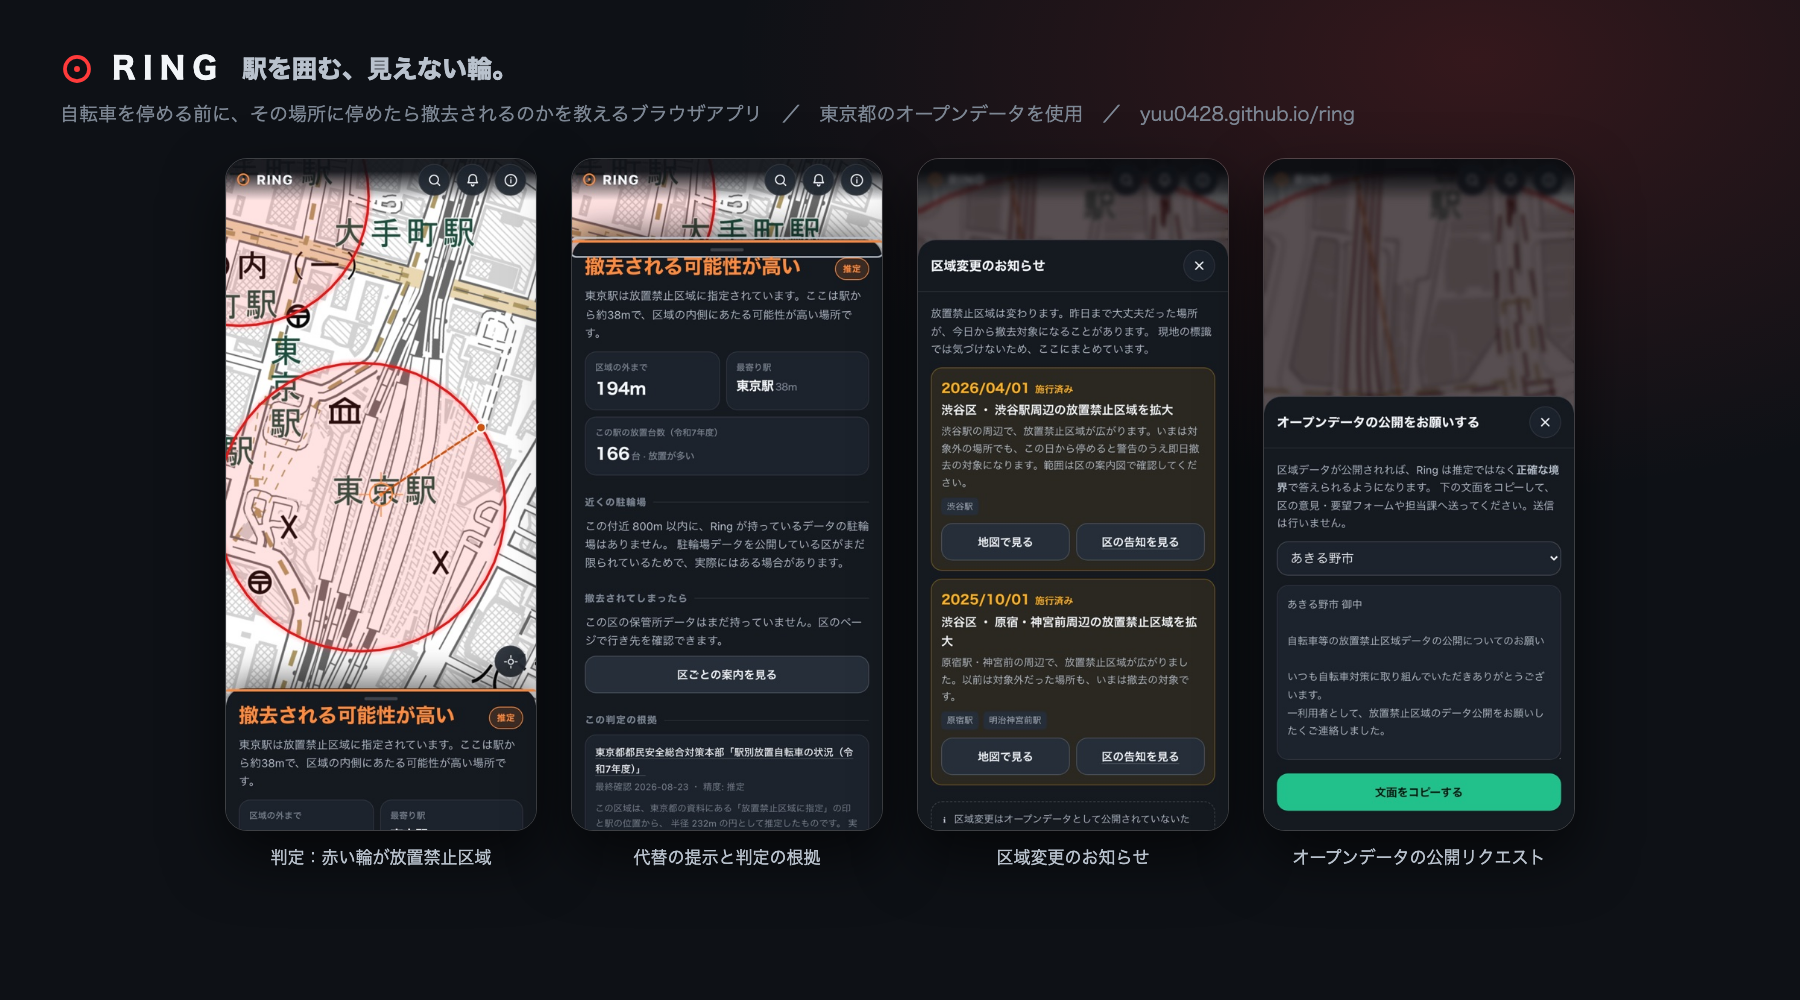
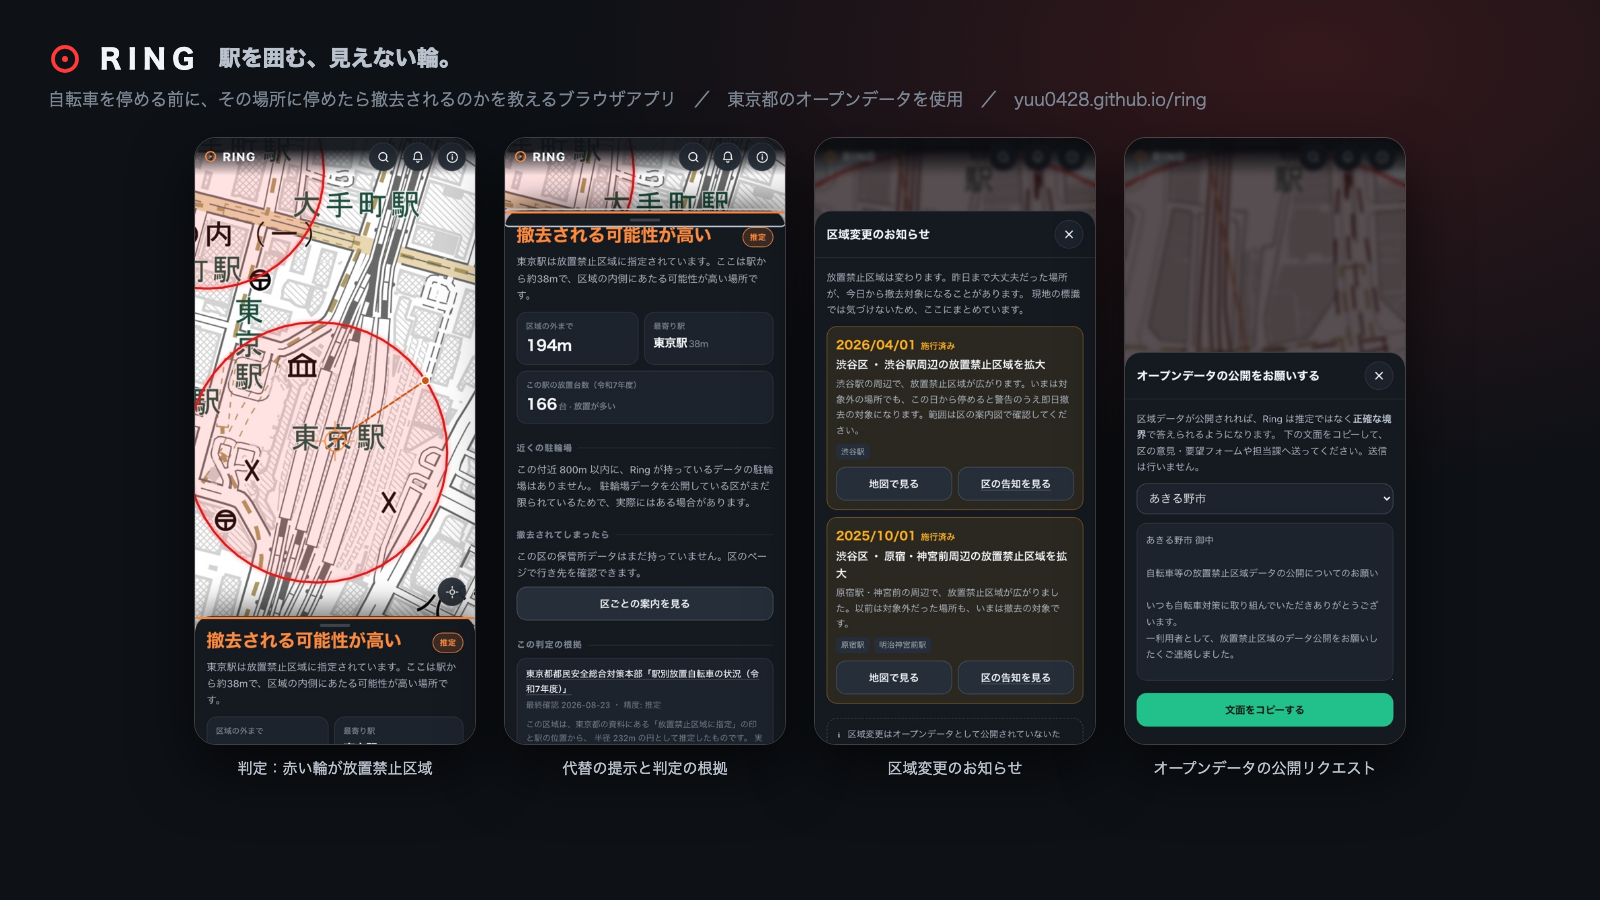
fix: 出典台帳を実際に読み込んでいるデータだけにする
アプリは出典一覧を「使っているデータ」として表示するため、
取得しただけで読み込んでいない3件（品川区の撤去情報、目黒区・港区の
シェアサイクルポート）を台帳から外した。調べたが使わなかった理由は
docs/DATA.md に残す。

あわせて README の記述を実態に合わせた（Tier A は 0 件であり
「代表区の区域をデータ化した」は事実と異なっていた）。

Claude-Session: https://claude.ai/code/session_01HeTbQn6TCvfEUZrWavP8G7

diff --git a/scripts/build-capture.ts b/scripts/build-capture.ts
@@ -39,21 +39,21 @@ async function main(): Promise<void> {
 
   const html = `<!doctype html><html lang="ja"><head><meta charset="UTF-8"><style>
 *{box-sizing:border-box;margin:0;padding:0}
-body{width:1800px;height:1000px;background:#0E1116;color:#F2F5F8;
+body{width:1600px;height:900px;background:#0E1116;color:#F2F5F8;
   font-family:-apple-system,"Hiragino Sans","Noto Sans JP",sans-serif;
-  padding:46px 60px;position:relative;overflow:hidden;
+  padding:38px 48px;position:relative;overflow:hidden;
   -webkit-print-color-adjust:exact}
 body::before{content:"";position:absolute;inset:0;
   background:radial-gradient(1200px 700px at 82% 6%,rgba(255,59,59,.16),transparent 62%)}
 header{position:relative;display:flex;align-items:center;gap:18px;margin-bottom:8px}
-.logo{font-size:30px;font-weight:800;letter-spacing:.24em}
-.tag{font-size:25px;font-weight:800;color:#B9C2CD}
-.sub{position:relative;font-size:19px;color:#7D8794;margin-bottom:30px}
-.row{position:relative;display:flex;gap:34px;justify-content:center;align-items:flex-start}
-figure{width:312px}
+.logo{font-size:27px;font-weight:800;letter-spacing:.24em}
+.tag{font-size:22px;font-weight:800;color:#B9C2CD}
+.sub{position:relative;font-size:17px;color:#7D8794;margin-bottom:24px}
+.row{position:relative;display:flex;gap:28px;justify-content:center;align-items:flex-start}
+figure{width:282px}
 figure img{width:100%;border-radius:22px;border:1px solid rgba(255,255,255,.2);
   box-shadow:0 26px 60px rgba(0,0,0,.6);display:block}
-figcaption{font-size:17px;color:#B9C2CD;margin-top:14px;text-align:center}
+figcaption{font-size:15px;color:#B9C2CD;margin-top:12px;text-align:center}
 </style></head><body>
 <header>
   <svg width="34" height="34" viewBox="0 0 24 24">
@@ -71,7 +71,7 @@ figcaption{font-size:17px;color:#B9C2CD;margin-top:14px;text-align:center}
   writeFileSync(p, html, 'utf8');
 
   const browser = await chromium.launch();
-  const page = await browser.newPage({ viewport: { width: 1800, height: 1000 }, deviceScaleFactor: 1 });
+  const page = await browser.newPage({ viewport: { width: 1600, height: 900 }, deviceScaleFactor: 1 });
   await page.goto(`file://${p}`, { waitUntil: 'networkidle' });
   await page.evaluate(() => document.fonts.ready);
   await page.waitForTimeout(300);

diff --git a/scripts/etl/sources.ts b/scripts/etl/sources.ts
@@ -138,38 +138,12 @@ export const SOURCES: Record<string, SourceDef> = {
   },
 
   // ---------------------------------------------------------------------
-  // 補助データ
+  // 地図・生成データ
+  //
+  // 調査段階では品川区「駅前放置自転車撤去情報」、目黒区・港区「自転車シェアリングポート」も
+  // 取得したが、現在の実装では読み込んでいないため台帳には載せない。
+  // 画面には「使っているデータ」として表示されるので、使っていないものを載せない。
   // ---------------------------------------------------------------------
-  'DS-12': {
-    id: 'DS-12',
-    name: '駅前放置自転車撤去情報（各駅ごと）',
-    provider: '品川区',
-    url: 'https://www.opendata.metro.tokyo.lg.jp/shinagawa/tekkyojoukyo_ekigoto.csv',
-    page_url: 'https://catalog.data.metro.tokyo.lg.jp/dataset/91bf1825-e7f2-4d6f-951a-60b29a63c913',
-    format: 'CSV',
-    license: 'CC BY 4.0',
-    used_for: ['駅別の放置実績（前年比）'],
-  },
-  'DS-13': {
-    id: 'DS-13',
-    name: '自転車シェアリングポート',
-    provider: '目黒区',
-    url: 'https://data.bodik.jp/dataset/8a5f19d4-6f50-442c-9468-d4f0143a1d94/resource/2fa4a5e9-da4b-4b38-9eeb-fa49873d3af3/download/131105_sharecycle_port_20240425.csv',
-    page_url: 'https://catalog.data.metro.tokyo.lg.jp/dataset/26a44479-a586-42f9-8cde-3011c6f1276b',
-    format: 'CSV',
-    license: 'CC BY 4.0',
-    used_for: ['代替手段（シェアサイクル）の位置'],
-  },
-  'DS-13b': {
-    id: 'DS-13b',
-    name: '港区自転車シェアリングポート',
-    provider: '港区',
-    url: 'https://opendata.city.minato.tokyo.jp/dataset/72c6c41e-1346-4e1c-a1f5-a04819e15a5f/resource/f01fc86c-7cdd-48a4-85ac-2217f0bc7304/download/minato_cyclesharingport.json',
-    page_url: 'https://catalog.data.metro.tokyo.lg.jp/dataset/6e6ef218-2cbd-4f15-8b34-bb7cd891fb1e',
-    format: 'GeoJSON',
-    license: 'CC BY 4.0',
-    used_for: ['代替手段（シェアサイクル）の位置'],
-  },
   'DS-14': {
     id: 'DS-14',
     name: '地理院タイル（淡色地図）',

diff --git a/explain.html b/explain.html
@@ -512,13 +512,14 @@ footer a{color:var(--fg1)}
       <tr><td>区営二輪車駐車場一覧</td><td>中央区</td><td>二輪車駐車場の位置・料金</td></tr>
       <tr><td><strong>保管所一覧</strong></td><td>大田区</td><td><strong>撤去駅と保管所の対応</strong>・開所時間</td></tr>
       <tr><td><strong>区営自転車保管場所設置箇所</strong></td><td>中野区</td><td>撤去区域と保管所の対応・開所時間</td></tr>
-      <tr><td>駅前放置自転車撤去情報（各駅ごと）</td><td>品川区</td><td>駅別の放置実績</td></tr>
-      <tr><td>自転車シェアリングポート</td><td>目黒区 / 港区</td><td>代替手段</td></tr>
       <tr><td>地理院タイル（淡色地図）</td><td>国土地理院</td><td>地図の基図</td></tr>
     </table>
     </div>
 
     <p>
+      このほか、品川区「駅前放置自転車撤去情報」や目黒区・港区「自転車シェアリングポート」も取得しましたが、
+      現在の実装では読み込んでいないため、アプリの「使っているデータ」には載せていません。
+      <br><br>
       ライセンスは各提供元の規約（東京都オープンデータカタログ由来は CC BY 4.0 相当、
       国土数値情報は利用約款、地理院タイルは出典明記で利用可）に従っています。
       アプリ内の「データについて」画面と <code>docs/DATA.md</code> でも確認できます。

diff --git a/explain.src.html b/explain.src.html
@@ -512,13 +512,14 @@ footer a{color:var(--fg1)}
       <tr><td>区営二輪車駐車場一覧</td><td>中央区</td><td>二輪車駐車場の位置・料金</td></tr>
       <tr><td><strong>保管所一覧</strong></td><td>大田区</td><td><strong>撤去駅と保管所の対応</strong>・開所時間</td></tr>
       <tr><td><strong>区営自転車保管場所設置箇所</strong></td><td>中野区</td><td>撤去区域と保管所の対応・開所時間</td></tr>
-      <tr><td>駅前放置自転車撤去情報（各駅ごと）</td><td>品川区</td><td>駅別の放置実績</td></tr>
-      <tr><td>自転車シェアリングポート</td><td>目黒区 / 港区</td><td>代替手段</td></tr>
       <tr><td>地理院タイル（淡色地図）</td><td>国土地理院</td><td>地図の基図</td></tr>
     </table>
     </div>
 
     <p>
+      このほか、品川区「駅前放置自転車撤去情報」や目黒区・港区「自転車シェアリングポート」も取得しましたが、
+      現在の実装では読み込んでいないため、アプリの「使っているデータ」には載せていません。
+      <br><br>
       ライセンスは各提供元の規約（東京都オープンデータカタログ由来は CC BY 4.0 相当、
       国土数値情報は利用約款、地理院タイルは出典明記で利用可）に従っています。
       アプリ内の「データについて」画面と <code>docs/DATA.md</code> でも確認できます。

diff --git a/docs/DATA.md b/docs/DATA.md
@@ -117,12 +117,15 @@ Ring が「代表区のデモ」ではなく「東京全域で答えが返るサ
 保管所データを公開していない区については、アプリは区の公式ページへ誘導する。
 リンクは `data/manual/ward-links.json` に、**実在を確認したものだけ**を登録している。
 
-### 2.5 補助データ
+### 2.5 調べたが、現在は使っていないデータ
 
-| 提供元 | データ名 | 用途 |
+取得・内容確認はしたが、いまの実装では読み込んでいない。
+画面には「使っているデータ」として表示されるため、出典台帳（`sources.json`）には載せていない。
+
+| 提供元 | データ名 | 使わなかった理由 |
 |---|---|---|
-| 品川区 | 駅前放置自転車撤去情報（各駅ごと） | 駅別の放置実績（前年比つき） |
-| 目黒区 | 自転車シェアリングポート | 代替手段の提示 |
+| 品川区 | 駅前放置自転車撤去情報（各駅ごと） | 都 Excel の駅別放置台数と重複するため |
+| 目黒区 | 自転車シェアリングポート | 「自分の自転車を停める」という主題から外れるため |
 | 港区 | 港区自転車シェアリングポート（GeoJSON） | 同上 |
 
 ### 2.6 地図
@@ -186,7 +189,7 @@ npm run etl
 
 > 出典：東京都都民安全総合対策本部「駅別放置自転車の状況（令和7年度）」、
 > 国土交通省「国土数値情報（鉄道データ）」、
-> 文京区・品川区・目黒区・中野区・中央区・大田区・港区の各オープンデータ、
+> 文京区・品川区・目黒区・中野区・中央区・大田区の各オープンデータ、
 > 国土地理院「地理院タイル」
 
 判定カードには、その判定に使ったデータの出典名・URL・最終確認日・精度区分を個別に表示している
